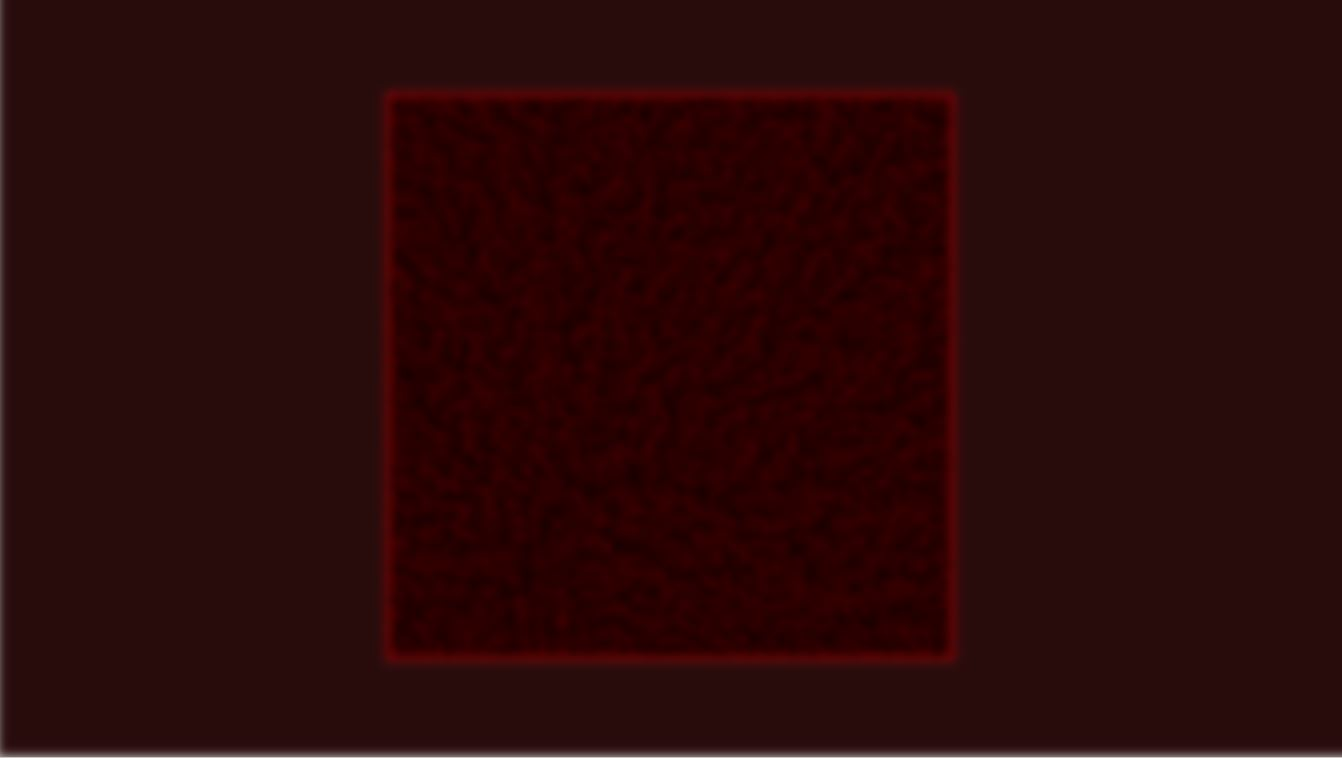
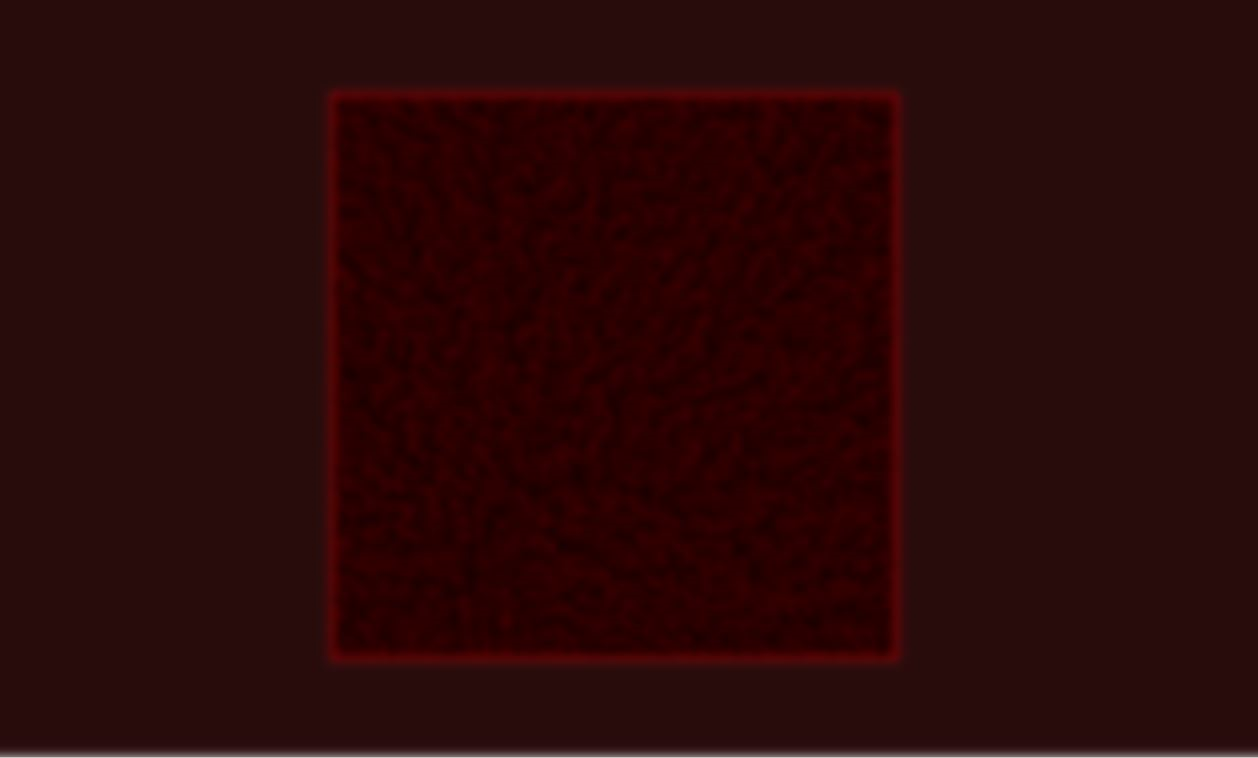
menu with back buttons and better background

Changed region(s): [[0.248, 0.1214, 0.31, 0.8799], [0.0, 0.0, 0.031, 0.971]]

diff --git a/main.py b/main.py
@@ -5,7 +5,7 @@ SCREEN_WIDTH = 1280
 SCREEN_HEIGHT = 720
 screen = pygame.display.set_mode((SCREEN_WIDTH, SCREEN_HEIGHT))
 pygame.display.set_caption("Maze Generator and Solver")
-menu_backGround = pygame.image.load("assets/background.png")
+menu_backGround = pygame.image.load("assets/backgroundv2.png")
 game_backGround = pygame.image.load("assets/play_background.png")
 red = pygame.Color(255,0,0)
 black = pygame.Color(0,0,0)
@@ -61,7 +61,7 @@ def main_menu():
     while run == True:
         screen.blit(menu_backGround, (0,0))
         menu_mouse_pos = pygame.mouse.get_pos()
-        heading_main_menu_text = get_font(100).render("MAIN MENU", True, "#b68f40")
+        heading_main_menu_text = get_font(135).render("MAZE", True, "#b68f40")
         menu_rect = heading_main_menu_text.get_rect(center=(640,100))
 
         ONE_PLAYER_BUTTON = Button(pos=(640,250), button_font=get_font(40), base_colour= white, hovering_colour="#d7fcd4", input_text="1 PLAYER", image=None, x_start=475, y_start=200, x_end=780, y_end=300)
